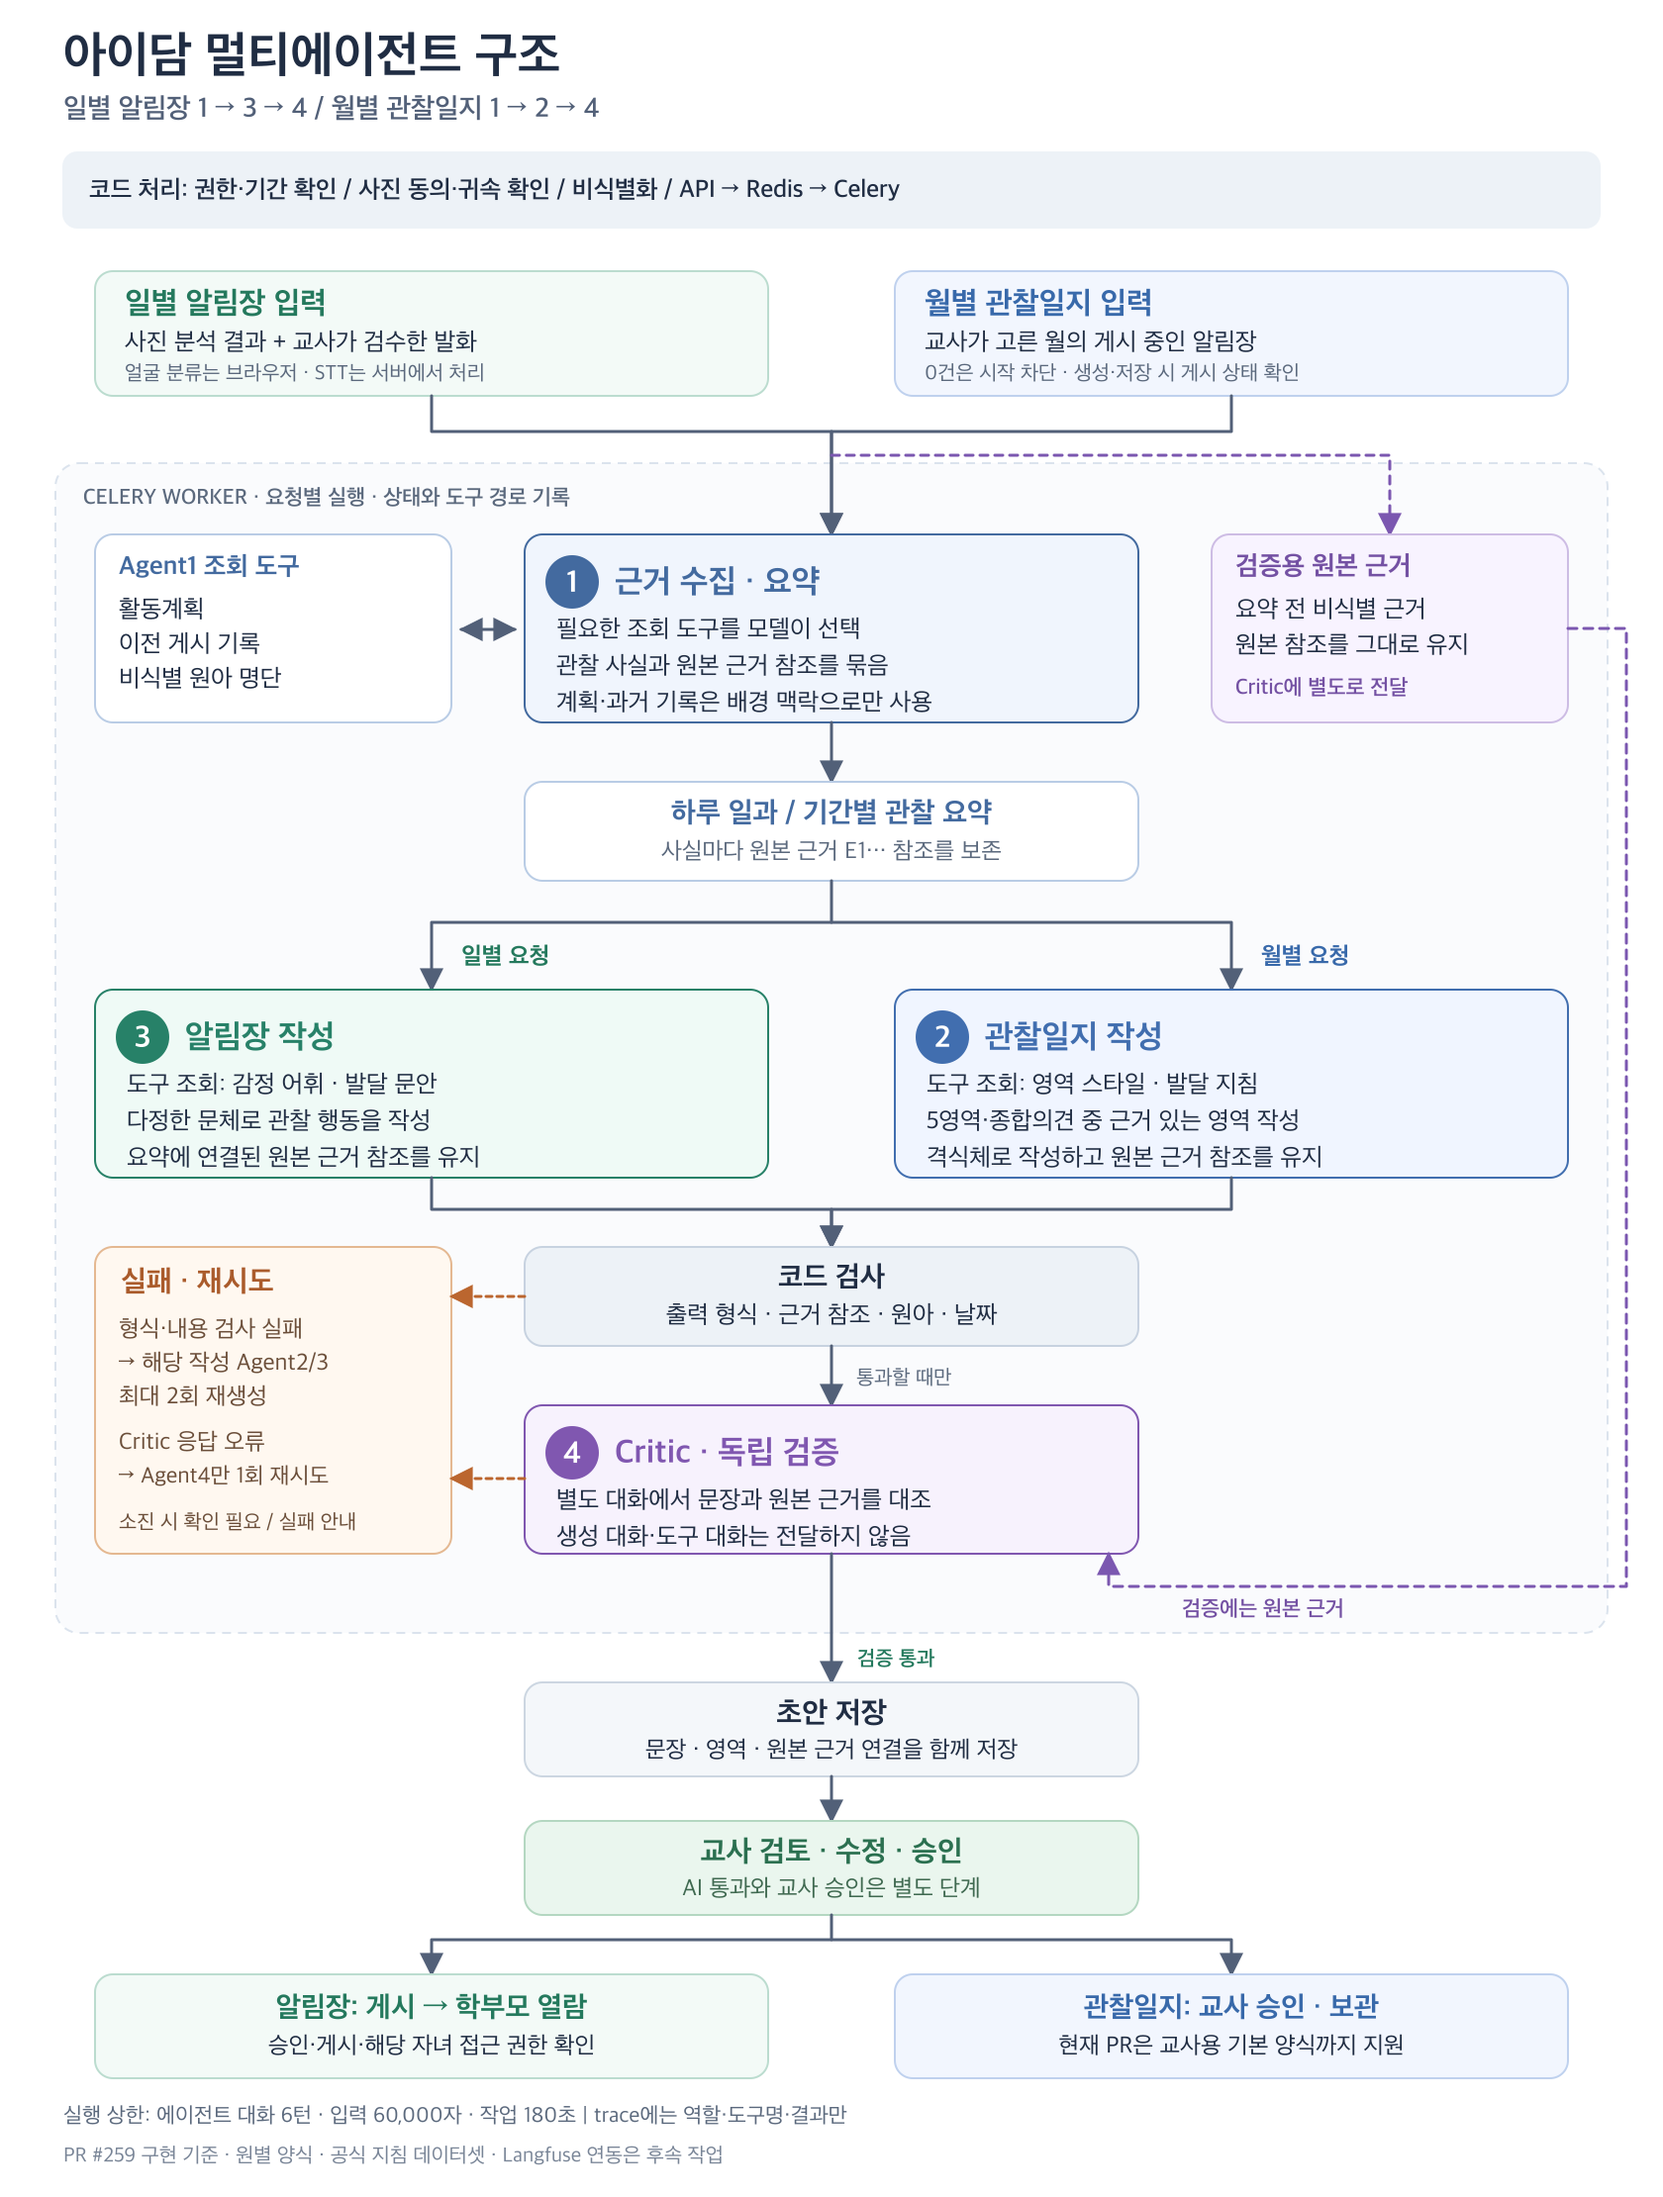
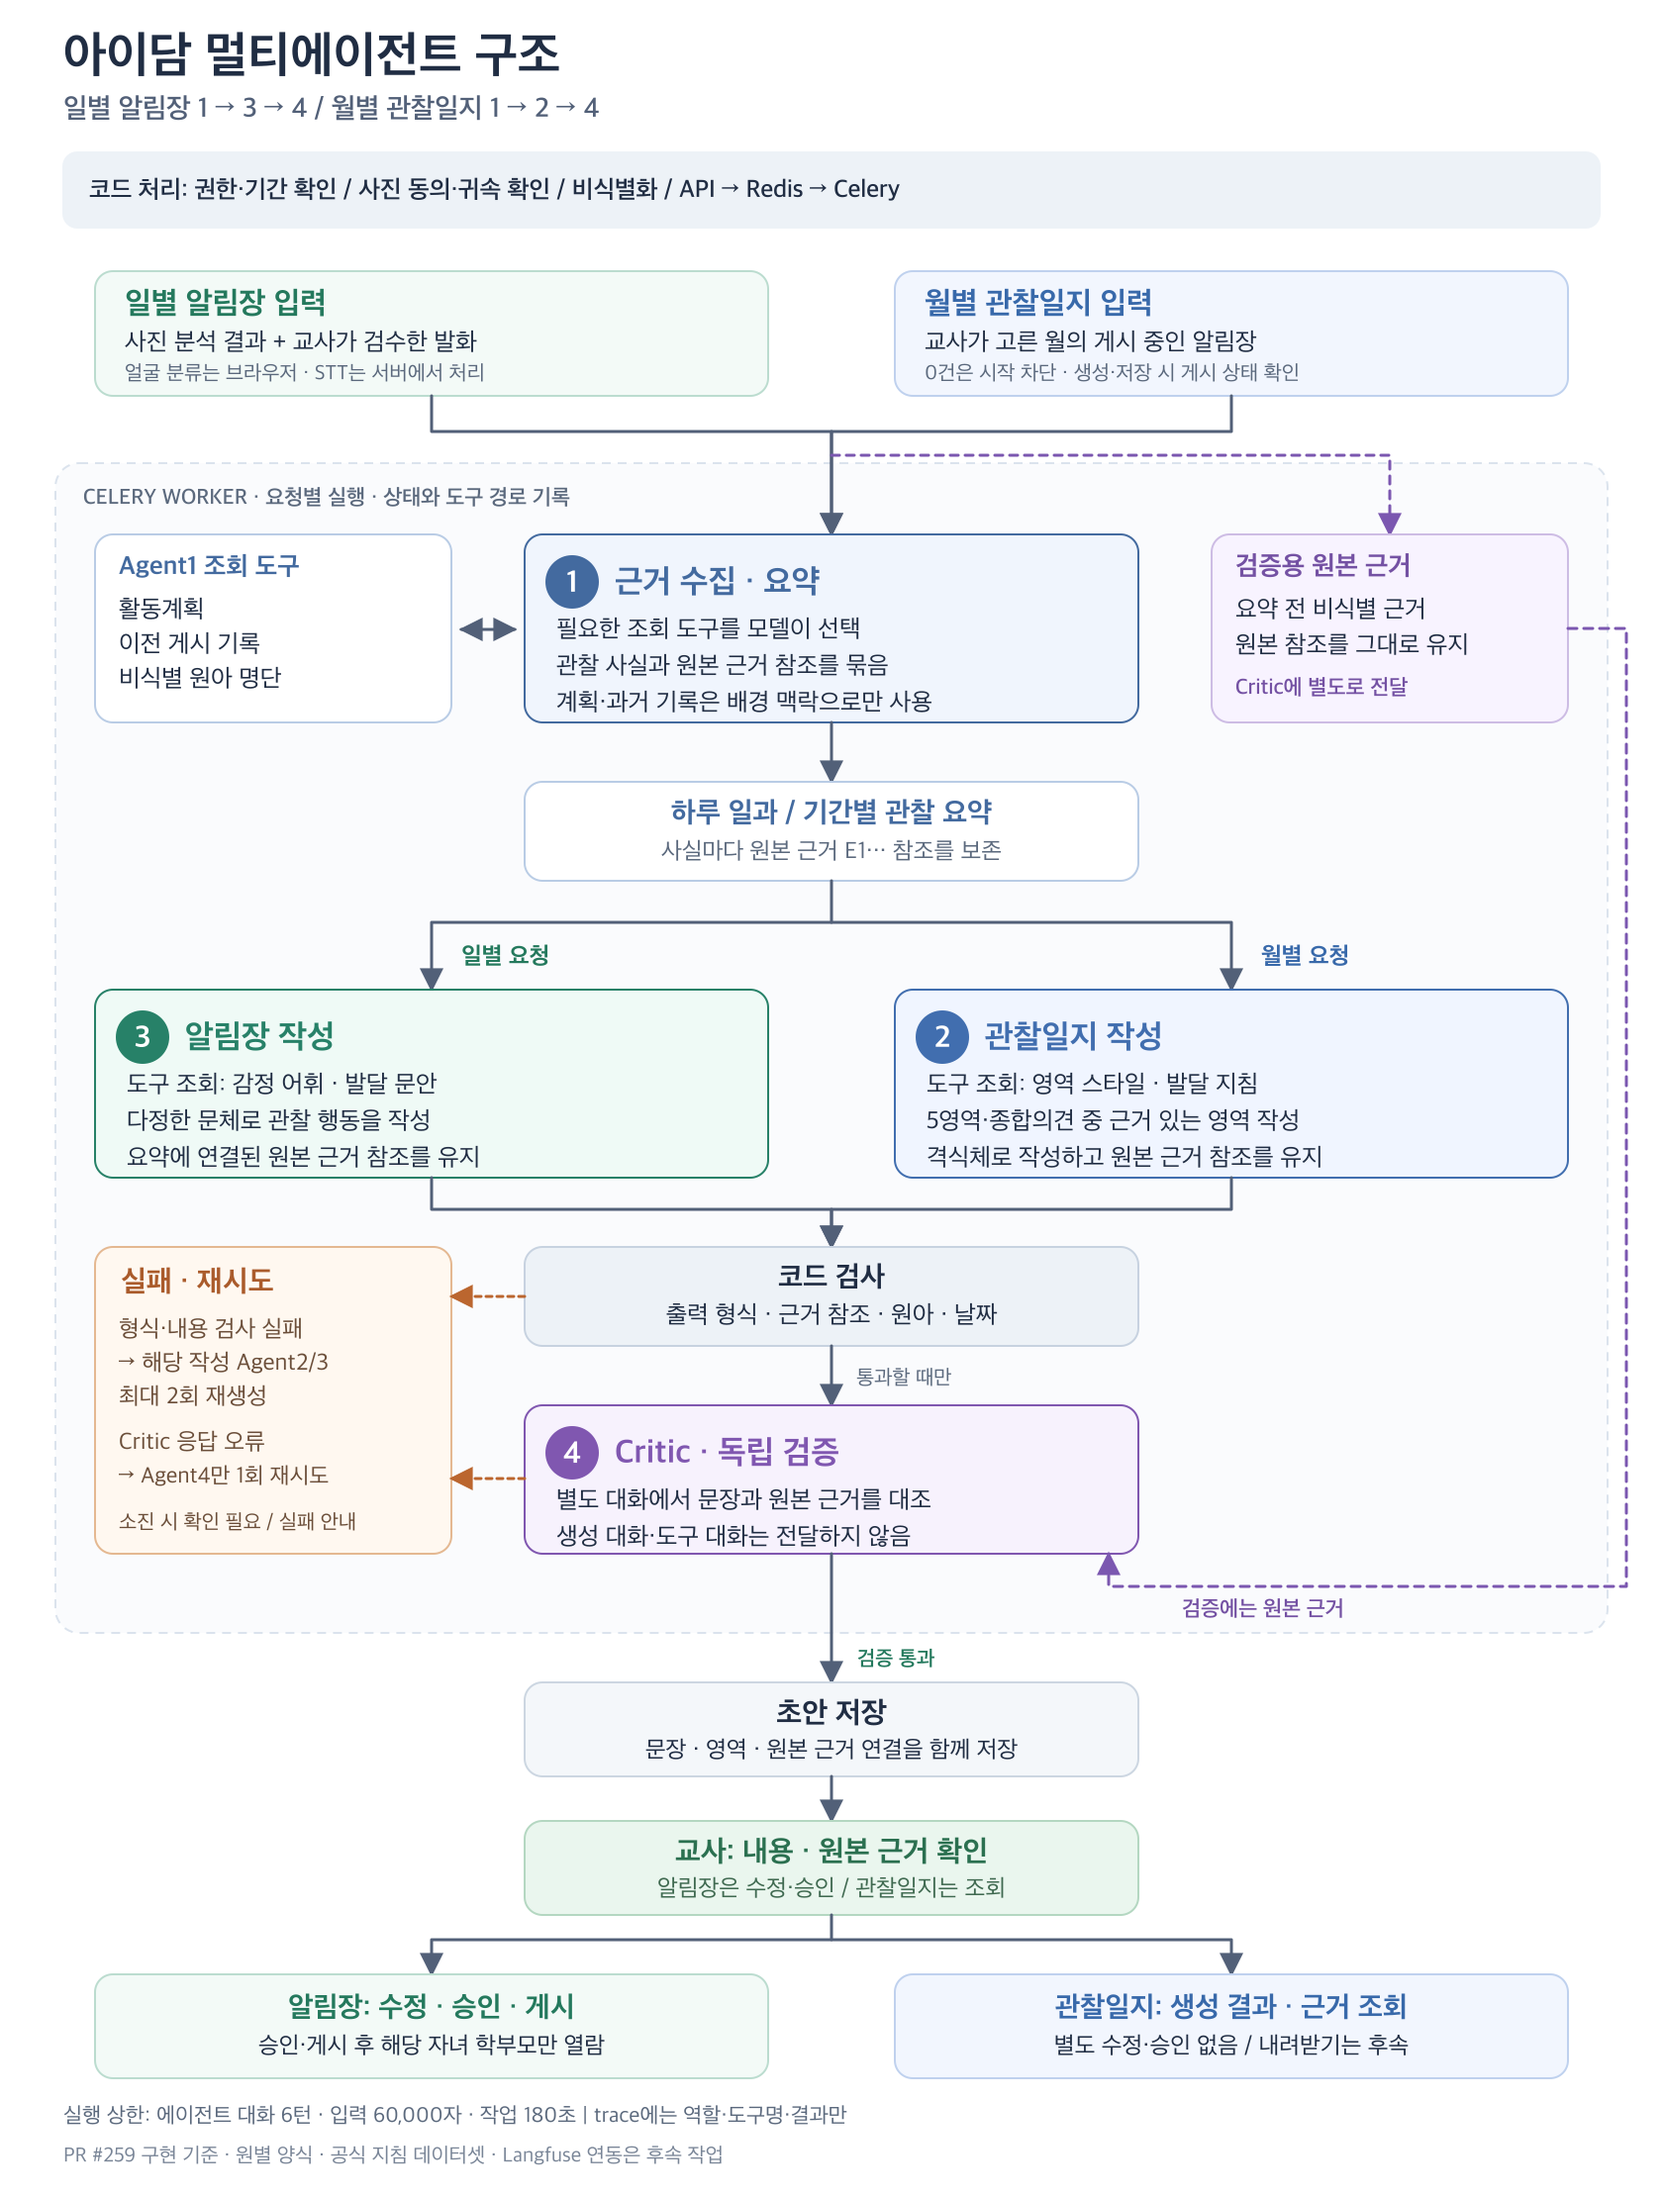
docs: align observation review scope
관찰일지 화면을 내용·근거 조회로 좁힌 #284 제안 반영 사항과 검증 범위를 설명합니다. 내려받기·파일 형식·H-1 적용 범위는 미정으로 남기고 구조도에서 관찰일지 승인 단계를 제거합니다.

Changed region(s): [[0.619, 0.9014, 0.8667, 0.9324], [0.1548, 0.9014, 0.3714, 0.9324], [0.4024, 0.8392, 0.5881, 0.8703]]

diff --git a/docs/multi-agent-validation.md b/docs/multi-agent-validation.md
@@ -14,6 +14,12 @@
 - 코드 검사·Critic 내용 실패는 해당 작성 에이전트로, Critic 응답 형식 오류는 Critic으로 돌아갑니다. 재시도 상한 뒤에는 확인 필요 또는 실패 사유를 안내합니다.
 - 이 그림은 PR #259의 구현을 설명합니다. 실행 흐름을 바꾸면 SVG와 PNG를 함께 갱신합니다. 후속 범위는 아래 남은 고도화 절과 테크스펙을 참고합니다.
 
+## #284 관찰일지 화면 범위
+
+#284 제안에 대한 #259 임시 화면 반영입니다. 관찰일지에서는 직접 작성·본문 수정·승인·승인 되돌리기·학부모 게시 버튼을 제공하지 않고, 내용과 원본 근거를 조회합니다. 목록은 승인 여부 대신 생성 전/생성됨을 표시합니다. 알림장의 수정·승인·게시 흐름과 공용 서버 API·문서 상태는 유지합니다. 과거에 수정·승인된 관찰일지도 기존 재생성 보호를 적용합니다.
+
+파일 내려받기는 미구현입니다. 편집 가능한 파일 형식과 H-1의 교사 내부 검토용 초안 내려받기 허용 범위는 #284에서 논의하며, 자동 승인이나 승인 우회를 추가하지 않습니다. 아래 월별 서버 테스트의 승인 검사는 공용 API 호환·문서 보호 검증이며 관찰일지 화면에서 승인 버튼을 제공한다는 뜻이 아닙니다.
+
 ## 자동 검증
 
 | 검증 | 방법 | 확인하는 것 |

diff --git a/docs/api/screens.md b/docs/api/screens.md
@@ -57,7 +57,7 @@
 | ⑤ 김진하 | 알림장 목록(원아별) | `GET /children/{child_id}/drafts?doc_type=parent_note&published=true`(최신순, `preview`), `GET /classes/{class_id}/children`(아이 이름). **Figma 없음** — 알림장 게시판에서 바로 상세로 보내면 ‹ › 로 한 칸씩만 움직일 수 있어 기록이 쌓이면 못 찾습니다(임시 결정(김진하), #89 리뷰) | 상세 작성 |
 | ⑤ 김진하 | 알림장 상세 | `GET /drafts/{draft_id}`, `GET /drafts/{draft_id}/read-receipts`(보호자 확인 수), (목록에 없음: 게시한 알림장 수정) | 둘 다 |
 | ⑤ 김진하 | 관찰일지 목록 | `GET /classes/{class_id}/children`, `GET /children/{child_id}/drafts?doc_type=observation_log`(원아마다), (목록에 없음: 반 전체 관찰일지를 기간으로 조회) | 둘 다 |
-| ⑤ 김진하 | 관찰일지 | `GET /drafts/{draft_id}`, `PATCH /drafts/{draft_id}`(저장하기) | 상세 작성 |
+| ⑤ 김진하 | 관찰일지 생성 결과 | `GET /drafts/{draft_id}`(내용·근거 조회). #284 제안을 반영한 #259 임시 화면은 직접 작성·수정·승인·승인 되돌리기를 제공하지 않음. 공용 서버 API는 유지하며 내려받기는 후속 | 상세 작성 |
 
 ## 목록에 없는 것
 
